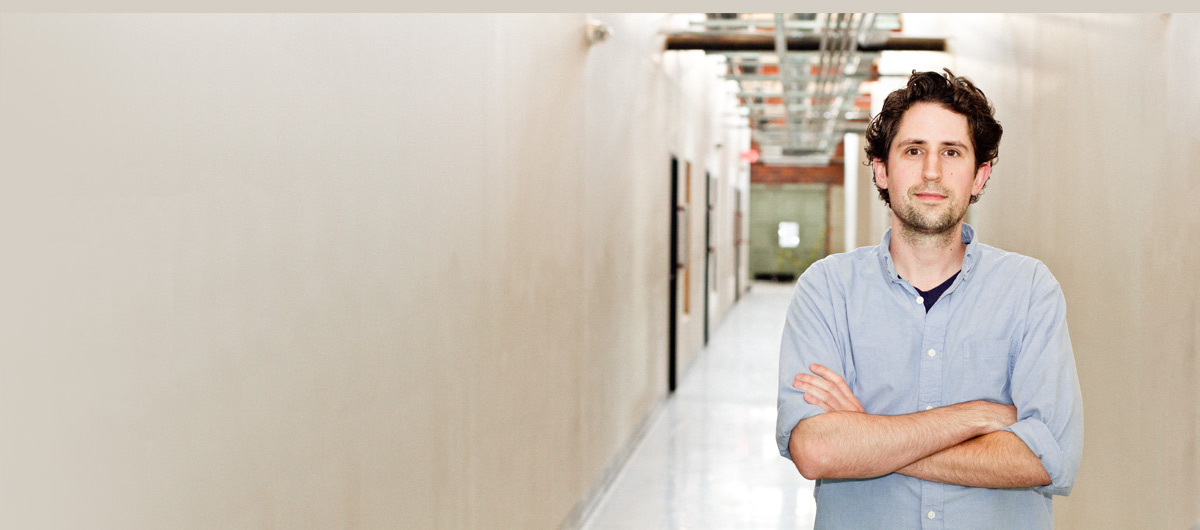
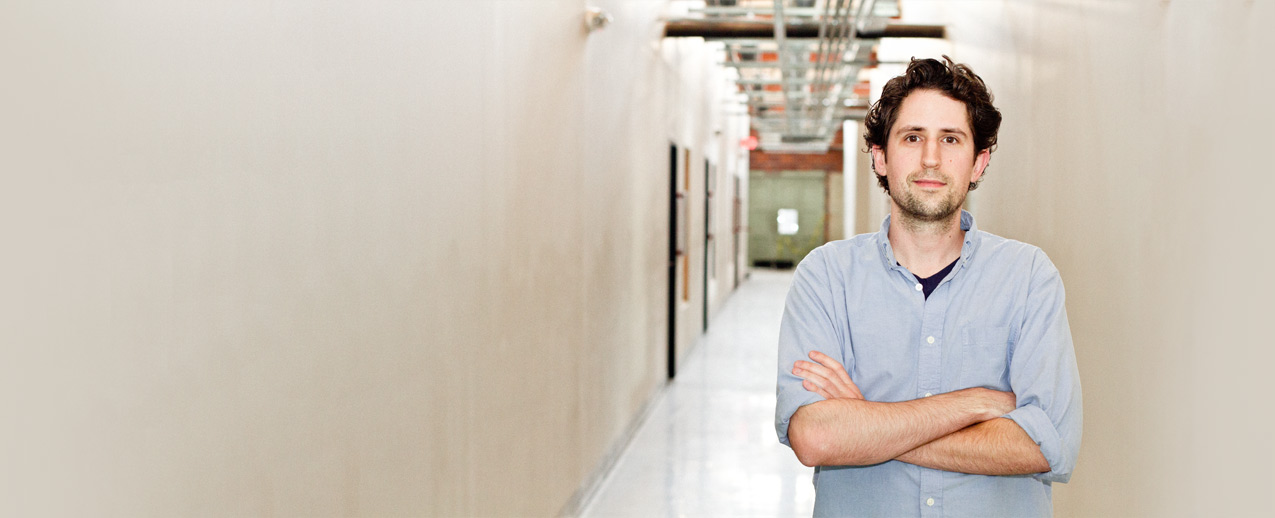
Added significant changes to the media queries.

Changed region(s): [[0.3392, 0.0, 1.0, 1.0]]

diff --git a/css/style.css b/css/style.css
@@ -20,21 +20,10 @@ header {
 }
 
 #logo {
-	padding-top: 6px;
+	padding-top: 12px;
 	width: 98px;
 	margin: 0 auto;
 }
-
-/*#nav-bar {
-	z-index: 100;
-	width: 100%;
-	height: 60px;
-	border-bottom: 1px solid #e5e5e5;
-	-webkit-box-shadow: 0px -5px 11px 5px #CCC;
-	-moz-box-shadow: 0px -5px 11px 5px #CCCCCC;
-	background-color: #fefefe;
-	opacity: .9;
-}*/
 
 a {
 	font-family: 'Open Sans', sans-serif;
@@ -56,20 +45,68 @@ a:focus {
 .hero-container {
 	height: 530px;
 	background-color: #a39161;
+	position: relative;
 }
 
 .intro-container {
 	position: relative;
 	z-index: 20;
-	padding-left: 10%;
+	width: 85%;
+	max-width: 1200px;
+	margin: 0 auto;
+	padding-left: 15%;
 }
 
 #clay {
-	background: #d5cfc4 url(../img/clay.jpg) no-repeat top right;
+	background: #d5cfc4 url(../img/clay.jpg) bottom no-repeat;
 	position: absolute;
 	height: 530px;
 	width: 100%;
 	opacity: .5;
+}
+
+#email {
+	border-radius: 5px;
+	padding: 15px 15px 15px 15px;
+	background-color: #fff;
+	width: 150px;
+	font-family: 'Christmas', sans-serif;
+	font-size: 2em;
+	font-weight: normal;
+	font-style: normal;
+	color: #a39161;
+	line-height: .7em;
+	display: block;
+	position: absolute;
+	bottom: -25px;
+	left: 50%;
+	margin-left: -90px;
+/*	text-shadow: 0px -1px 0px #7a693d;
+	-webkit-text-shadow: 0px -1px 0px #7a693d;
+	-moz-text-shadow: 0px -1px 0px #7a693d;*/
+	box-shadow:  0px 3px 0px 0px #ccc;
+	-webkit-box-shadow: 0px 3px 0px 0px #ccc;
+	-moz-box-shadow: 0px 3px 0px 0px #ccc;
+}
+
+#email:hover {
+	background-color: #a39161;
+	color: #fff;
+	cursor: pointer;
+/*	text-shadow: 0px -1px 0px #7a693d;
+	-webkit-text-shadow: 0px -1px 0px #7a693d;
+	-moz-text-shadow: 0px -1px 0px #7a693d;*/
+	box-shadow:  0px 3px 0px 0px #7a693d;
+	-webkit-box-shadow: 0px 3px 0px 0px #7a693d;
+	-moz-box-shadow: 0px 3px 0px 0px #7a693d;
+}
+
+#email:active {
+	background-color: #a39161;
+	color: #fff;
+	cursor: pointer;
+	-webkit-box-shadow: 0px 0px 0px 0px #CCC;
+	-moz-box-shadow: 0px 0px 0px 0px #CCCCCC;
 }
 
 h1 {
@@ -80,7 +117,7 @@ h1 {
 	color: #fff;
 	line-height: .7em;
 	margin: 0;
-	padding-top: 150px;
+	padding-top: 155px;
 	padding-bottom: 20px;
 	text-align: left;
 }
@@ -96,20 +133,13 @@ h1 {
 	padding-bottom: 3px;
 }
 
-/*.dash-2 {
-	background: #494949;
-	width: 100px;
-	height: 1px;
-	margin: 1.175em auto;
-}*/
-
 .line-3 {
 	font-family: 'Open Sans', sans-serif;
 	font-size: 1.25em;
 	font-weight: 300;
 	font-style: normal;
 	color: #fff;
-	padding-bottom: 50px;
+	padding-bottom: 20px;
 	text-align: left;
 	padding-left: 7px;
 	width: 500px;
@@ -123,6 +153,8 @@ h1 {
 	font-style: normal;
 	font-weight: 600;
 	color: #fff;
+	width: 35px;
+	height: 50px;
 }
 
 #work-container {
@@ -134,25 +166,29 @@ h3 {
 	font-size: 2.625em;
 	font-weight: normal;
 	font-style: normal;
+	line-height: .9em;
 	color: #a39161;
 	padding-top: 100px;
+/*	text-shadow: 0px -1px 0px #7a693d;
+	-webkit-text-shadow: 0px -1px 0px #7a693d;
+	-moz-text-shadow: 0px -1px 0px #7a693d;*/
 }
 
 .dash {
 	background: #e5e5e5;
 	width: 100px;
 	height: 1px;
-	margin: 1.175em auto;
+	margin: 1.375em auto;
 }
 
 p {
 	font-family: 'Open Sans', sans-serif;
-	font-size: .875em;
-	font-weight: 400;
+	font-size: 1em;
+	font-weight: 300;
 	font-style: normal;
 	color: #8a8a8a;
 	text-decoration: none;
-	line-height: 1.5em;
+	line-height: 1.8em;
 	padding-bottom: 50px;
 	padding-right: 4%;
 	padding-left: 4%;
@@ -197,80 +233,120 @@ img {
 
 }
 
-.span4 {
+.row-fluid {
 	padding-bottom: 50px;
-	width: 75%;
-	margin: 0 auto;
 }
 
-/*@media screen and (max-width:800px) {
+@media screen and (max-width: 680px) {
 	.hero-container {
-		height: 375px;
-	}
-
-	#clay {
-		height: 375px;
-		width: 100%;
+		height: auto;
+		background-color: #a39161;
 		position: relative;
 	}
 
-	.intro-container {
-		height: 400px;
-		background-color: #2d2d2d;
-		padding-bottom: 50px;
+	#clay {
 		position: static;
+		padding-top: 60px;
+		background: #d5cfc4 url(../img/clay.jpg) 85% 25px no-repeat;
+		background-size: cover;
+		height: 300px;
+		width: 100%;
+		opacity: .5;
+		z-index: 30;
 	}
 
-	h1 {
-		font-size: 6em;
-		font-weight: normal;
-		font-style: normal;
-		color: #a39161;
-		line-height: .7em;
-		padding-top: 25px;
-		padding-bottom: 0;
-		text-align: center;
+	.intro-container {
+		position: static;
+		z-index: 20;
+		width: 100%;
+		max-width: 1200px;
+		background-color: #2d2d2d;
+		padding: 0 0 25px 0;
 	}
-}
-*/
-
-@media screen and (max-width:680px) {
-
-	h3 {
-		padding-top: 50px;
-	}
-
-	.ipad-container img {
-		left: 3px;
-	}
-
-	.ipad-container .ipad-overlay {
-		left: .5%;
-		width: 99%;
-		margin: 0 auto;
-		background-size: contain;
-	}
-}
-
-@media screen and (max-width:520px) {
 
 	h1 {
 		font-size: 10em;
+		padding-top: 20px;
+		margin: 0;
+		text-align: left;
+		width: 90%;
+	}
+
+	h1, .line-2, .line-3 {
+		color: #a39161;
+	}
+
+	.hello {
+		width: 90%;
+		margin-left: 7%;
+		padding-top: 35px;
+		padding-bottom: 20px;
+	}
+
+	.goodtwin {
+		font-family: 'Christmas', sans-serif;
+		font-size: 1.5em;
+		font-style: normal;
+		font-weight: 600;
+		color: #8a8a8a;
+		width: 35px;
+		height: 50px;
 	}
 
 	.ipad-container img {
 		padding-bottom: 45px;
+		top: 18px;
 	}
 
 	.ipad-container .ipad-overlay {
 		left: -1px;
 		width: 99%;
 		margin-left: .75%;
+		background-size: contain;
 	}
 }
 
-@media screen and (max-width:420px) {
-	h1 {
-		font-size: 8em;
+@media screen and (max-width: 640px) {
+	.ipad-container img {
+		padding-bottom: 45px;
+		top: 17px;
 	}
 }
+
+
+@media screen and (max-width: 600px) {
+	.ipad-container img {
+		padding-bottom: 45px;
+		top: 16px;
+	}
+}
+
+@media screen and (max-width: 530px) {
+	.ipad-container img {
+		padding-bottom: 45spx;
+		top: 15px;
+	}
+}
+
+@media screen and (max-width: 485px) {
+	.ipad-container img {
+		padding-bottom: 45spx;
+		top: 13px;
+	}
+}
+
+@media screen and (max-width: 400px) {
+	.ipad-container img {
+		padding-bottom: 45spx;
+		top: 11px;
+	}
+}
+
+
+
+
+
+
+
+
+

diff --git a/index.html b/index.html
@@ -14,22 +14,21 @@
 </head>
 <body>
   <header>
-    <div id="logo">      
-      <a href="file:///Users/GOODTWIN1/repos/clay/index.html"><img src="img/logo.png" id="logo" alt="Logo"></a>
+    <div id="logo"><a href="index.html"><img src="img/logo.png" alt="Logo"></a>
     </div>
     <div id="nav-bar"></div>
   </header>
 
   <div class="hero-container">
-    <div id="clay"></div> 
+    <div id="clay"></div>
     <div class="intro-container">
       <div class="hello">
         <h1>Hello.</h1>
         <h2 class="line-2">I'm an Omaha based designer.</h2>
+        <p class="line-3">I have a passion for details and I love what I do. Currently, I’m working as an Art Director with good folks down at <span><a href="http://www.goodtwin.co" class="goodtwin" target="_blank">GoodTwin</a></span>.</p>
       </div>
-      <div class="dash-2"></div>
-      <p class="line-3">I have a passion for details and I love what I do. Currently, I’m working as an Art Director with good folks down at <span><a href="http://www.goodtwin.co" class="goodtwin" target="_blank">GoodTwin</a></span>.</p>
     </div>
+    <a id="email" href="mailto:claywiese@yahoo.com" target="_blank">Get in Touch</a>
   </div>
 
   <div class="work-container">
@@ -174,20 +173,18 @@
     <div class="dash"></div>
     <p>Here are a few logo concepts. Some are in use. Some are just "The Ones That Got Away." And some were never really in the running I just like them. </p>
     <div class="row-fluid">
-      <div class="span4">
-        <img src="img/logos/sarahz-2.png" alt="Sarah Zemunski | Pet Photographer logo">
-        <img src="img/logos/splinterworks-1.png" alt="Splinterworks logo">
-        <img src="img/logos/splinterworks-2.png" alt="Splinterworks logo">
-        <img src="img/logos/arnolds.png" alt="Arnold's Tavern logo — a bottle pouring into shot glasses form a smiley face.">
-        <img src="img/logos/eliteform-1.png" alt="Eliteform logo — a flag forms and E and F.">
-        <img src="img/logos/eliteform-2.png" alt="Eliteform logo — an E and F form a flame.">
-        <img src="img/logos/godfathers-1.png" alt="Godfather's Pizza logo">
-        <img src="img/logos/godfathers-2.png" alt="Godfather's Pizza logo">
-        <img src="img/logos/sarahz-1.png" alt="Sarah Zemunski | Pet Photographer logo">
-        <img src="img/logos/sarahz-3.png" alt="Sarah Zemunski | Pet Photographer logo">
-        <img src="img/logos/suite1.png" alt="Suite 1 Pub &amp; Pizzeria logo">
-        <img src="img/logos/bg-club.png" alt="Boys &amp; Girls Club of the Midlands logo">
-      </div>
+      <img src="img/logos/sarahz-2.png" alt="Sarah Zemunski | Pet Photographer logo">
+      <img src="img/logos/splinterworks-1.png" alt="Splinterworks logo">
+      <img src="img/logos/splinterworks-2.png" alt="Splinterworks logo">
+      <img src="img/logos/arnolds.png" alt="Arnold's Tavern logo — a bottle pouring into shot glasses form a smiley face.">
+      <img src="img/logos/eliteform-1.png" alt="Eliteform logo — a flag forms and E and F.">
+      <img src="img/logos/eliteform-2.png" alt="Eliteform logo — an E and F form a flame.">
+      <img src="img/logos/godfathers-1.png" alt="Godfather's Pizza logo">
+      <img src="img/logos/godfathers-2.png" alt="Godfather's Pizza logo">
+      <img src="img/logos/sarahz-1.png" alt="Sarah Zemunski | Pet Photographer logo">
+      <img src="img/logos/sarahz-3.png" alt="Sarah Zemunski | Pet Photographer logo">
+      <img src="img/logos/suite1.png" alt="Suite 1 Pub &amp; Pizzeria logo">
+      <img src="img/logos/bg-club.png" alt="Boys &amp; Girls Club of the Midlands logo">
     </div>
   </div>
 </body>
